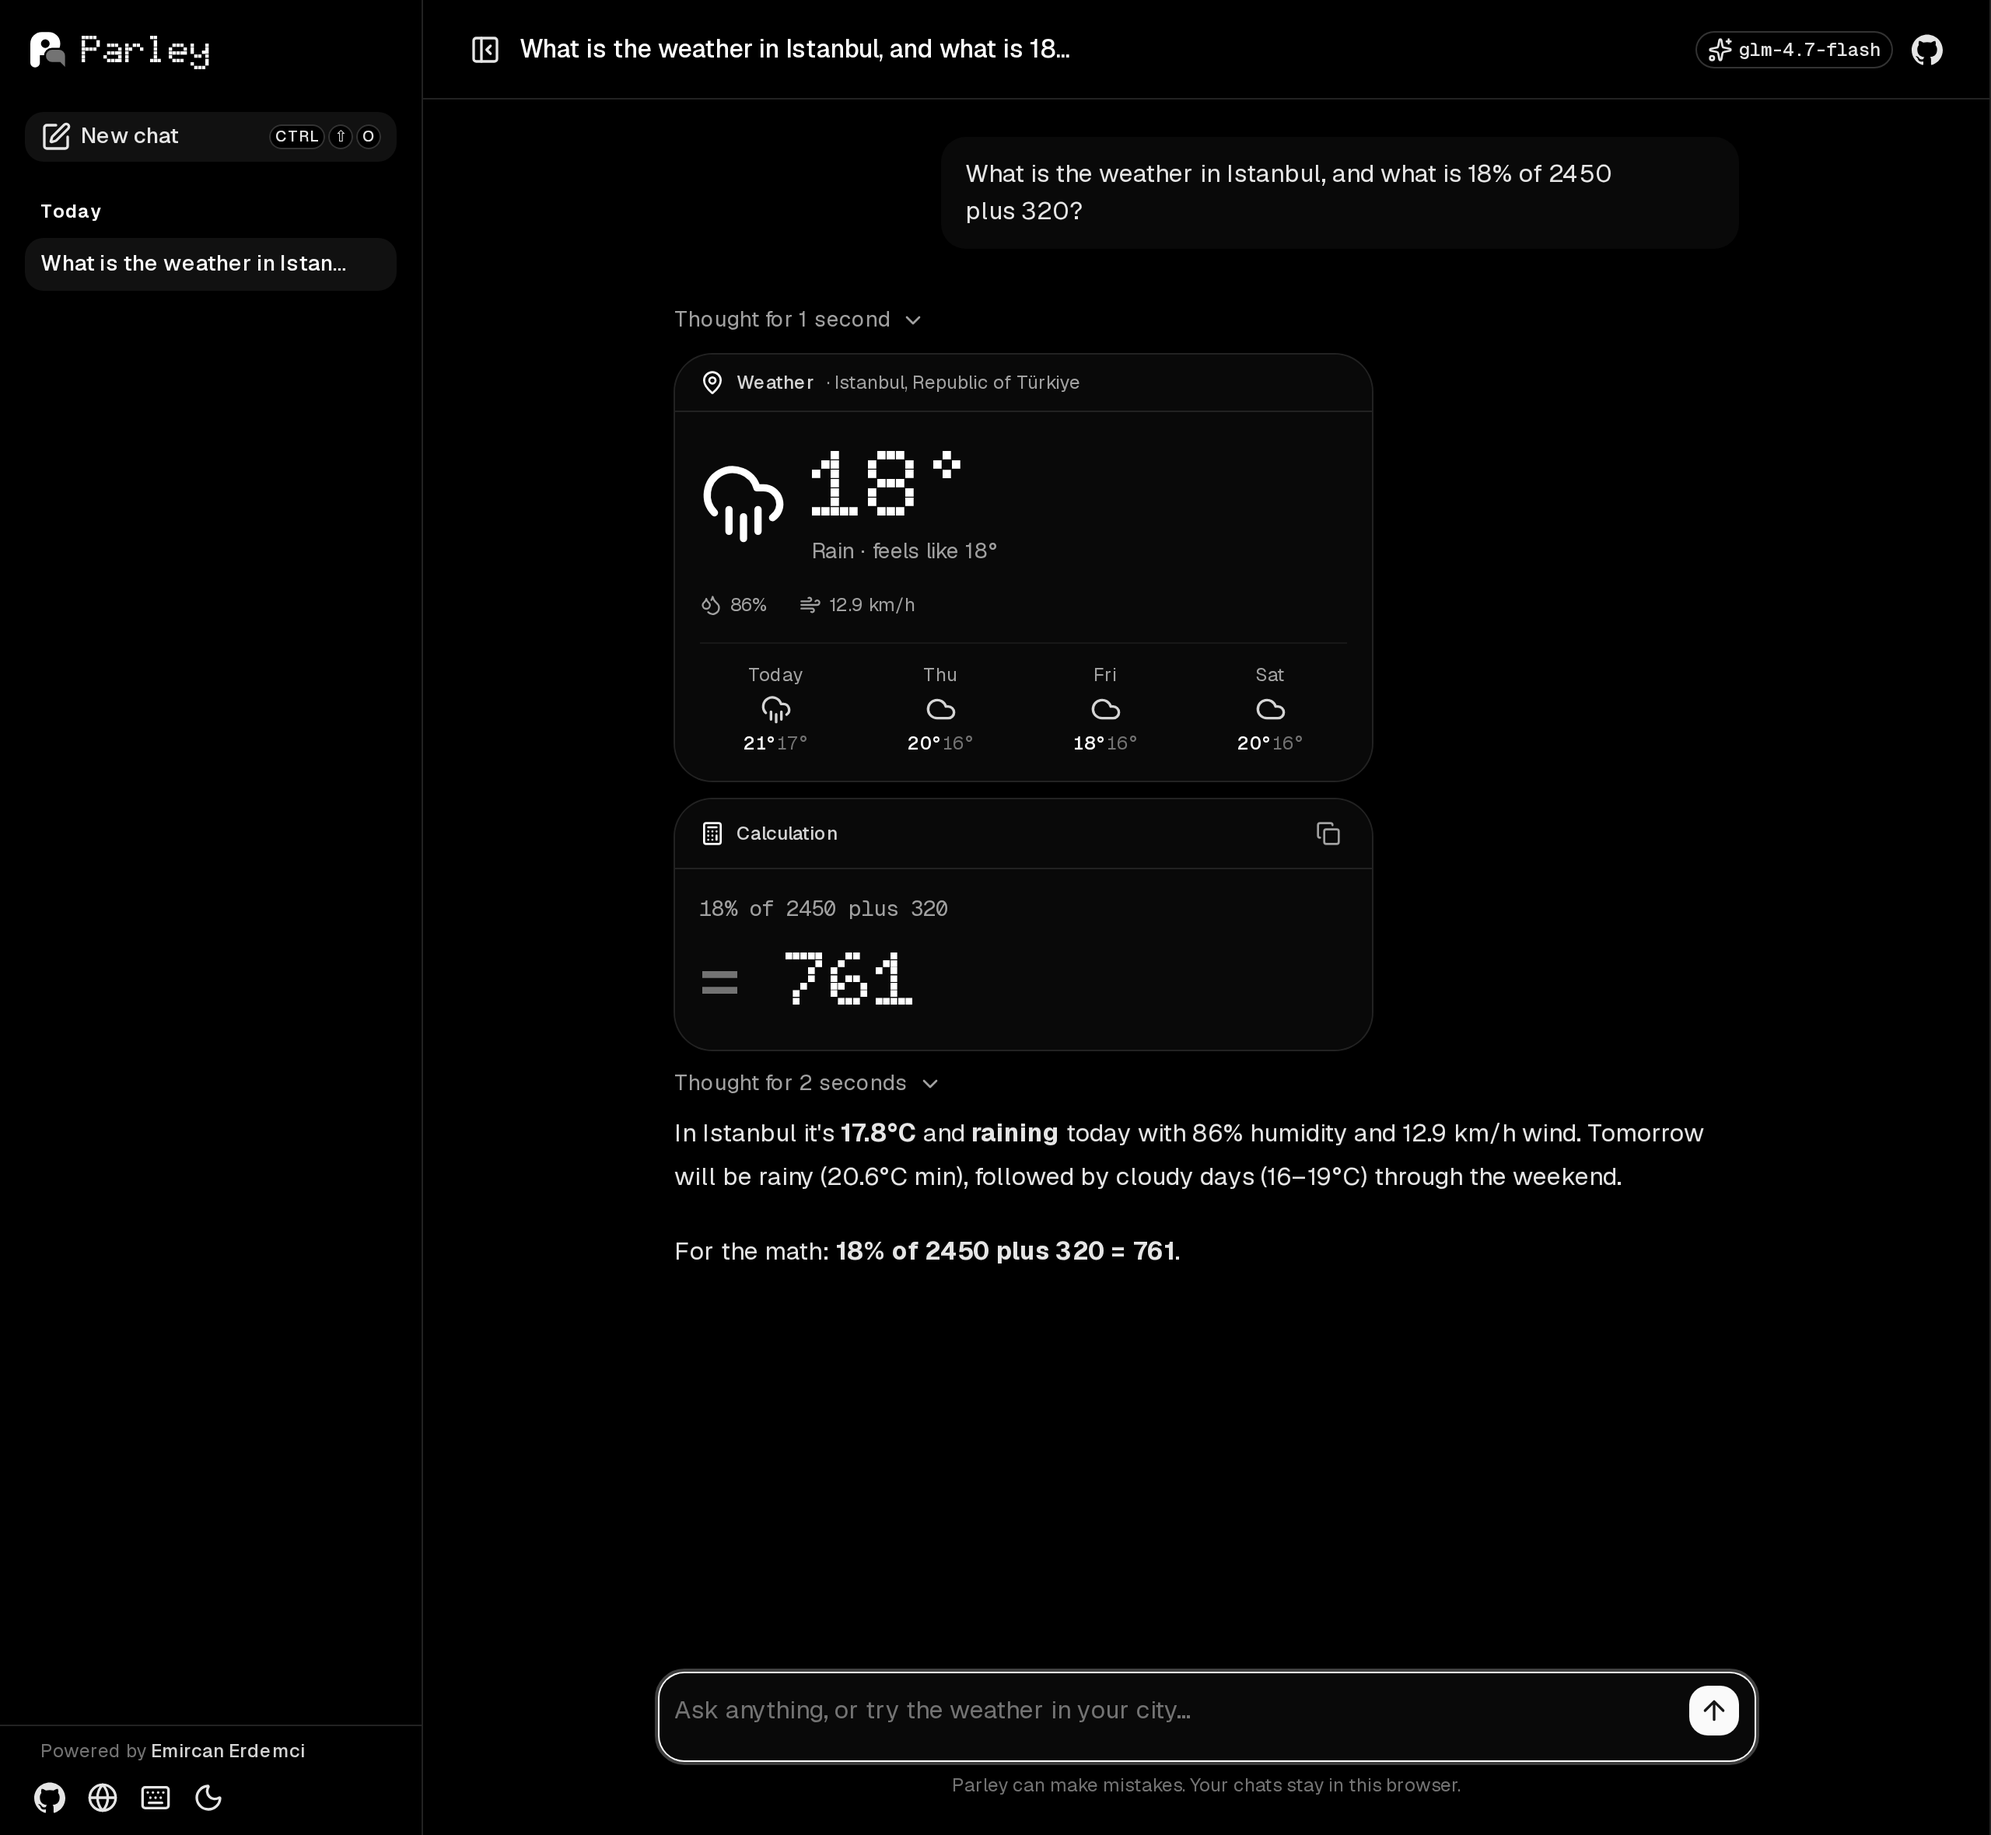
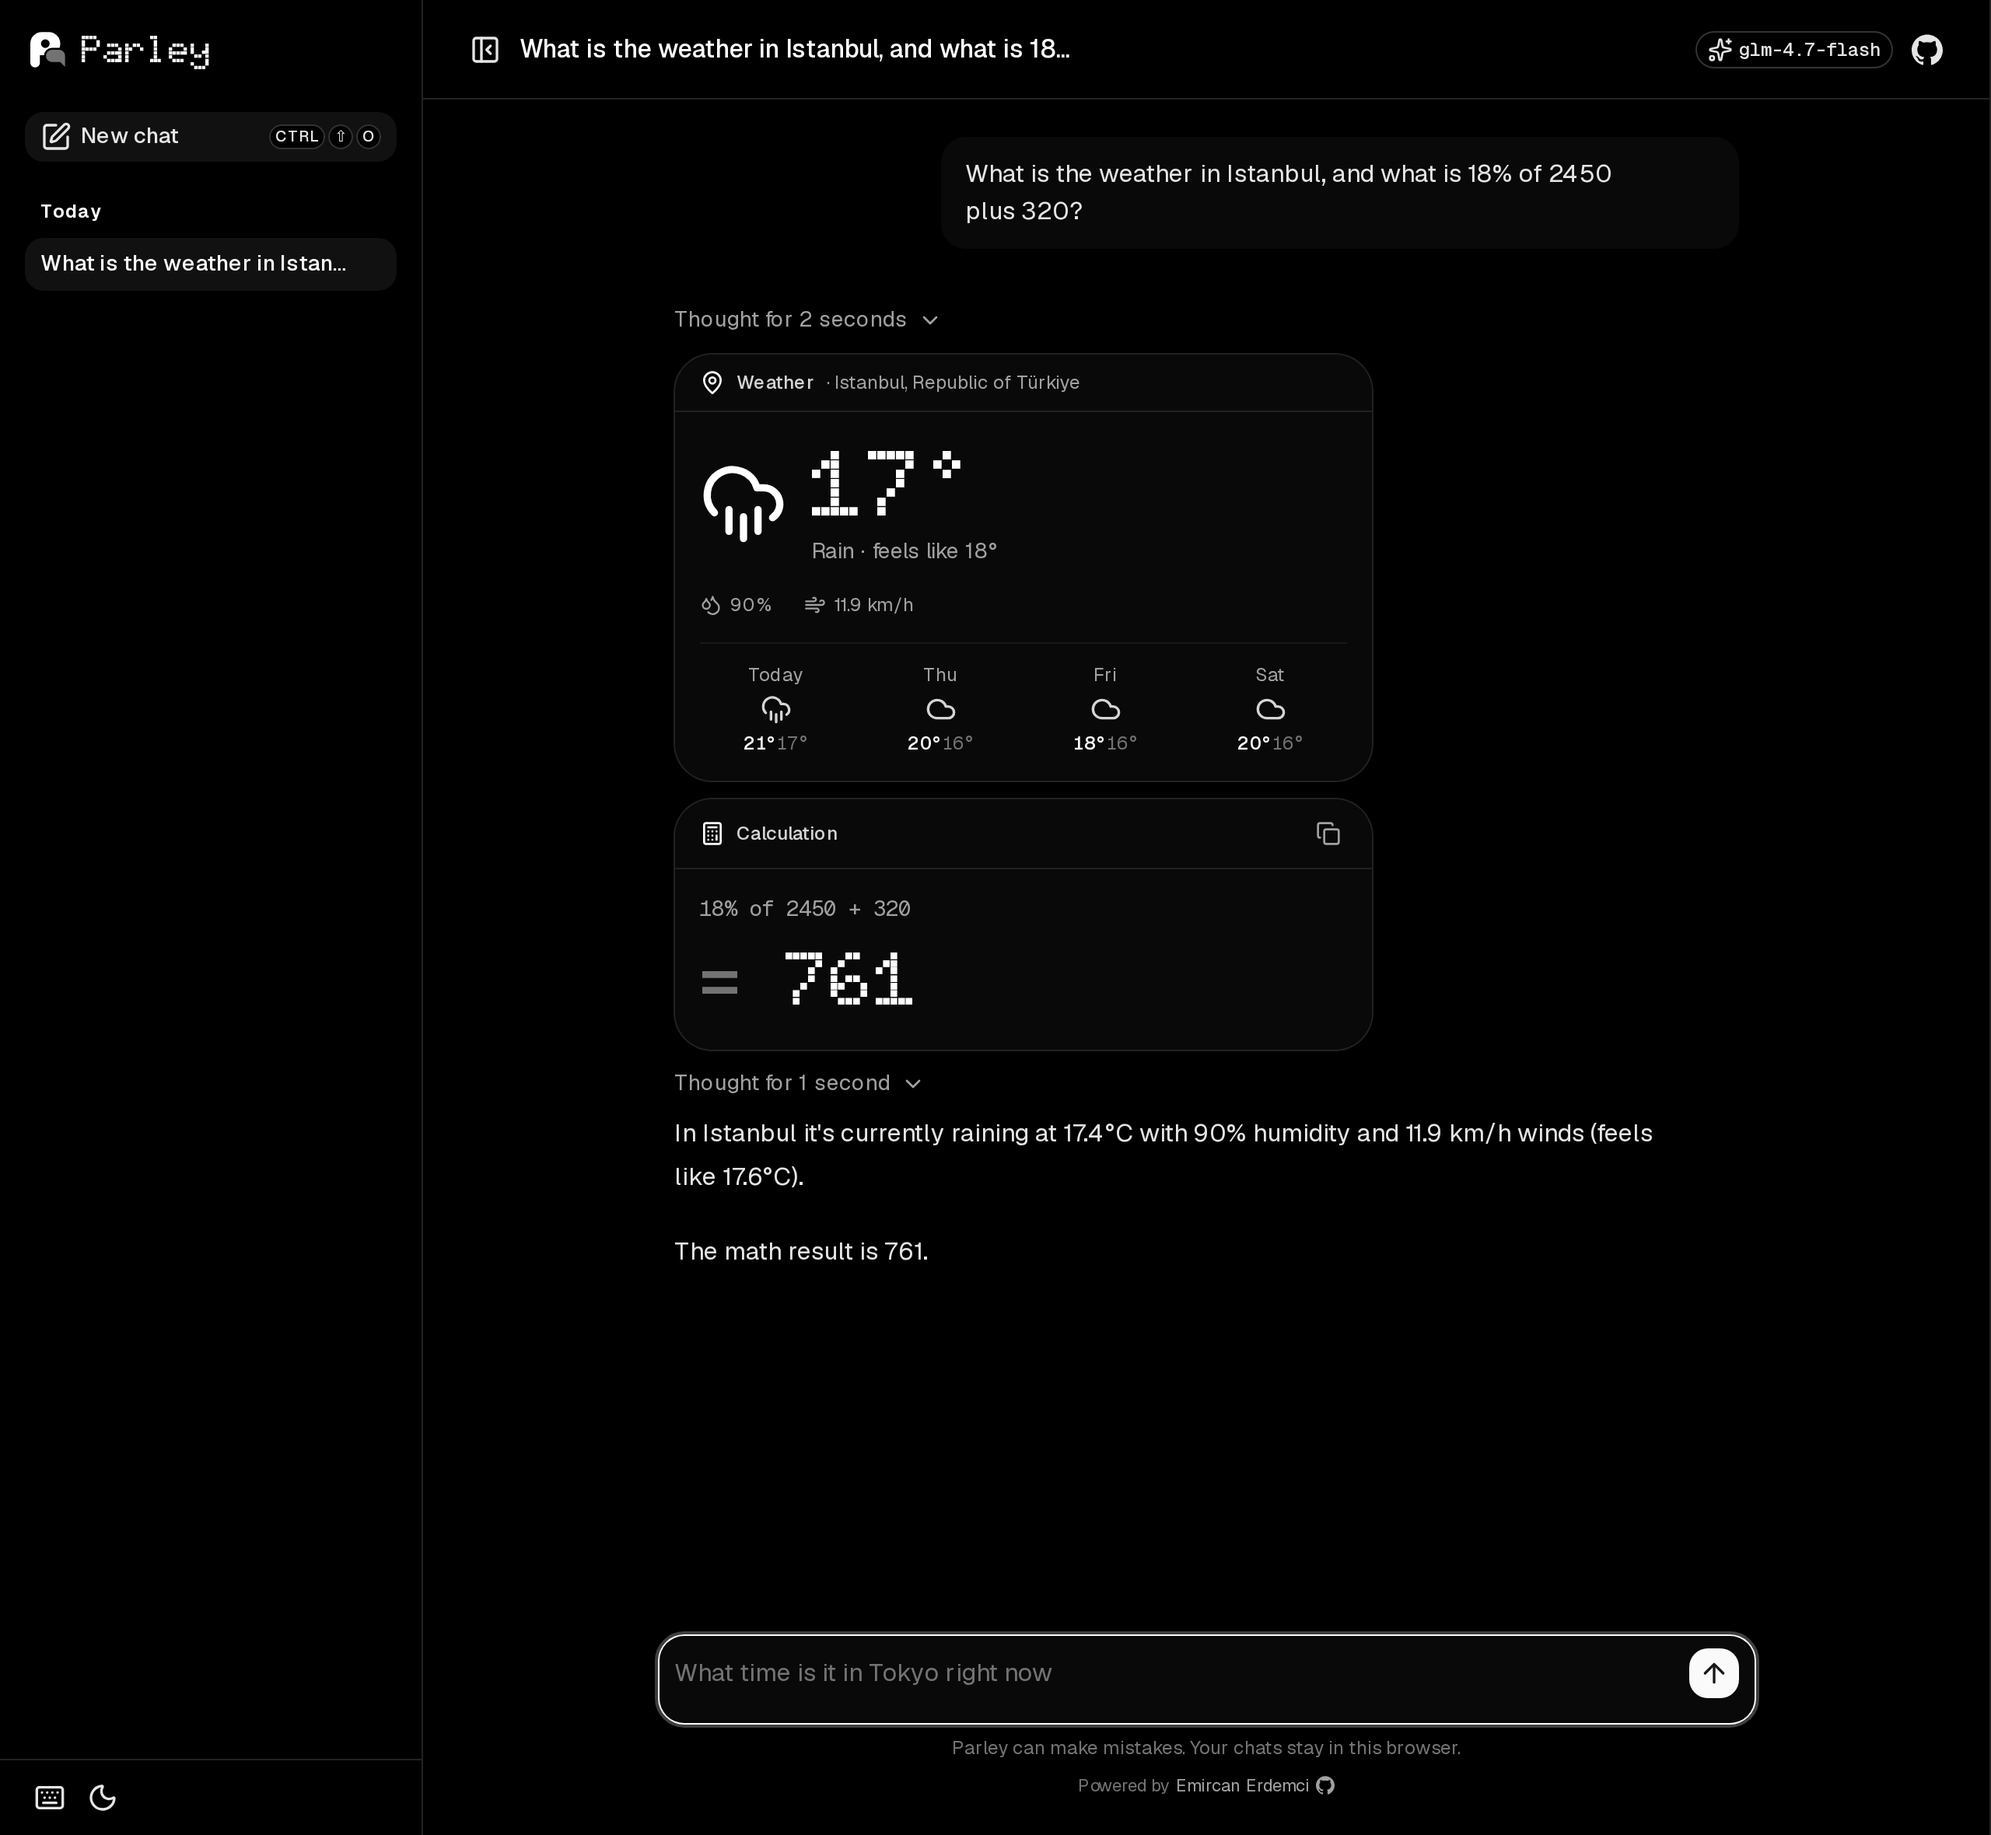
Refresh README visuals; keep placeholder prompts to one line on phones
Re-rendered the banner, demo GIF and screenshots with the footer credit
and the typewriter placeholder. Shortened the placeholder examples so
none wraps and gets clipped on a 360px screen.

diff --git a/app/components/chat/ChatComposer.vue b/app/components/chat/ChatComposer.vue
@@ -6,12 +6,13 @@ const emit = defineEmits<{ submit: [text: string], stop: [], reload: [] }>()
 
 const input = defineModel<string>({ default: '' })
 
+// Kept short so each one fits on a single line on phones.
 const placeholder = useTypewriter([
   'Ask anything…',
-  'What\'s the weather in Istanbul this week?',
+  'Weather in Istanbul this week?',
   'What\'s 18% of 2,450 plus 320?',
-  'What time is it in Tokyo right now?',
-  'Write a Vue composable that debounces a ref'
+  'What time is it in Tokyo?',
+  'Write a Vue debounce composable'
 ])
 
 function onSubmit() {
